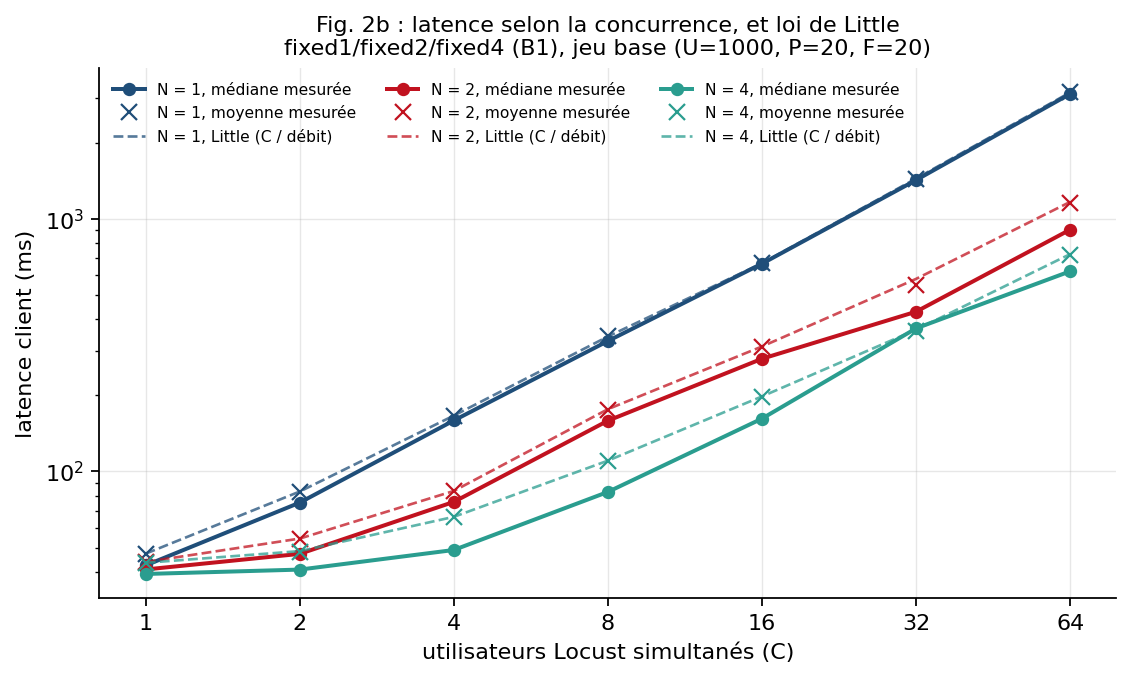
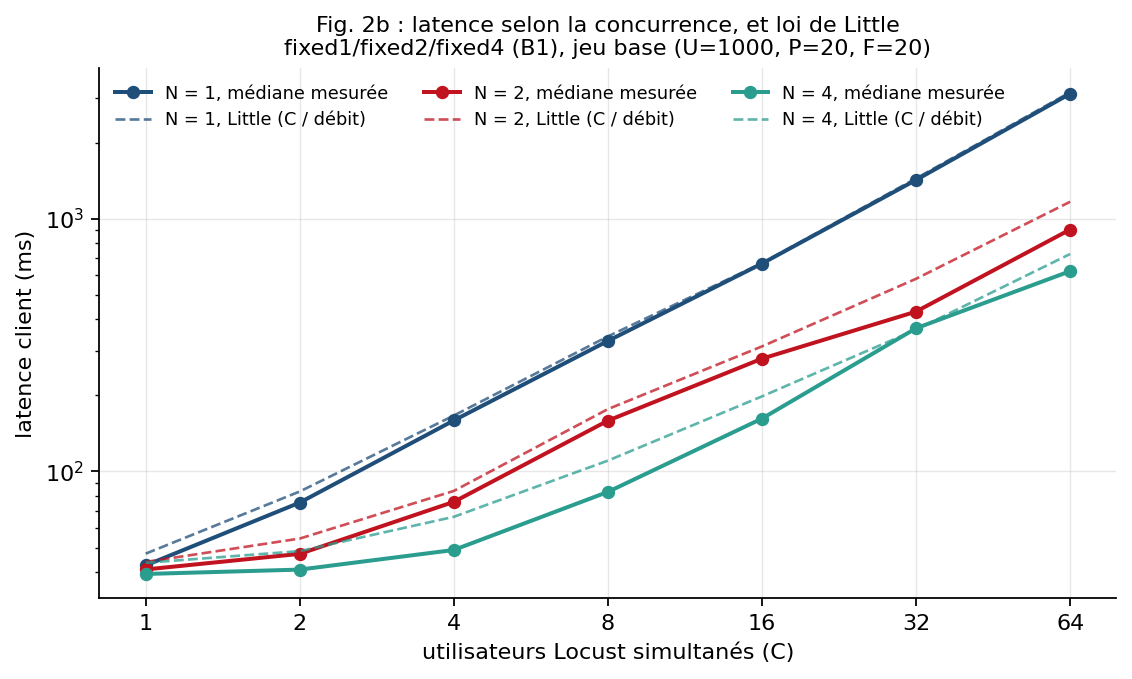
fig

diff --git a/scripts/analyze.py b/scripts/analyze.py
@@ -256,15 +256,13 @@ def fig2(d, out):
         c = COL.get(n, "#444")
         ax.plot(g["C"], g["client_ms_median"], "o-", lw=1.8, ms=5, color=c,
                 label=f"N = {n}, médiane mesurée")
-        ax.plot(g["C"], g["client_ms_mean"], "x", ms=7, color=c,
-                label=f"N = {n}, moyenne mesurée")
         ax.plot(g["C"], g["little_latency_ms"], "--", lw=1.2, color=c, alpha=.75,
                 label=f"N = {n}, Little (C / débit)")
     log2_c(ax, d)
     ax.set_yscale("log")
     style(ax, "utilisateurs Locust simultanés (C)", "latence client (ms)",
           "Fig. 2b : latence selon la concurrence, et loi de Little", sub)
-    ax.legend(frameon=False, fontsize=7, ncol=3)
+    ax.legend(frameon=False, fontsize=8, ncol=3)
     fig.tight_layout()
     save(d[cols], fig, "fig2b", out)
 

diff --git a/README.md b/README.md
@@ -169,7 +169,7 @@ Les journaux de `fixed1` confirment la configuration réellement démarrée : `U
 
 ![Fig. 2b](figures/fig2b.png)
 
-*Fig. 2b : latence client médiane (trait plein), latence moyenne (croix) et prédiction de Little `C / débit` (pointillés). Données : [`figures/fig2b.csv`](figures/fig2b.csv).*
+*Fig. 2b : latence client médiane (trait plein) et prédiction de Little `C / débit` (pointillés), une couleur par N. Jeu `base` (U = 1 000, P = 20, F = 20). Données : [`figures/fig2b.csv`](figures/fig2b.csv).*
 
 #### Interprétation
 
